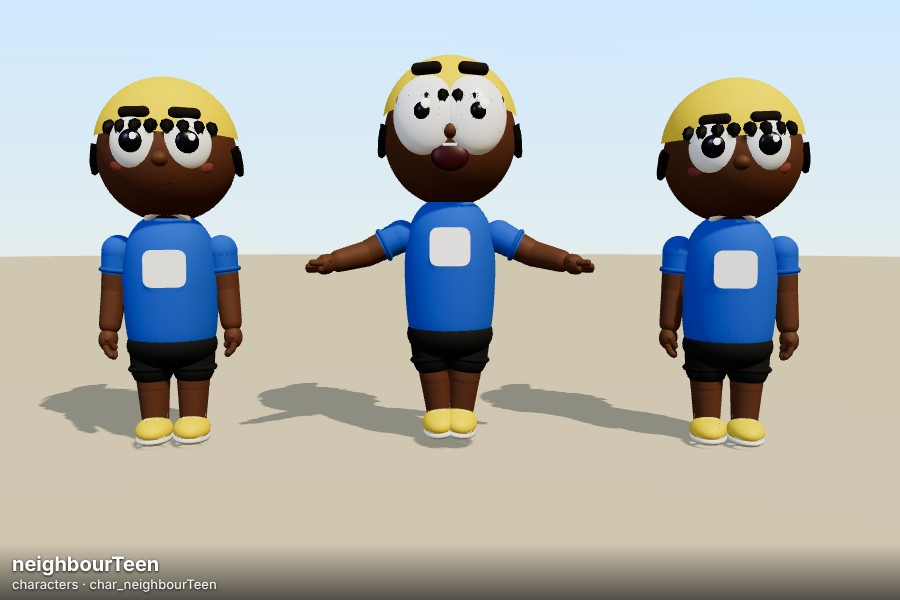
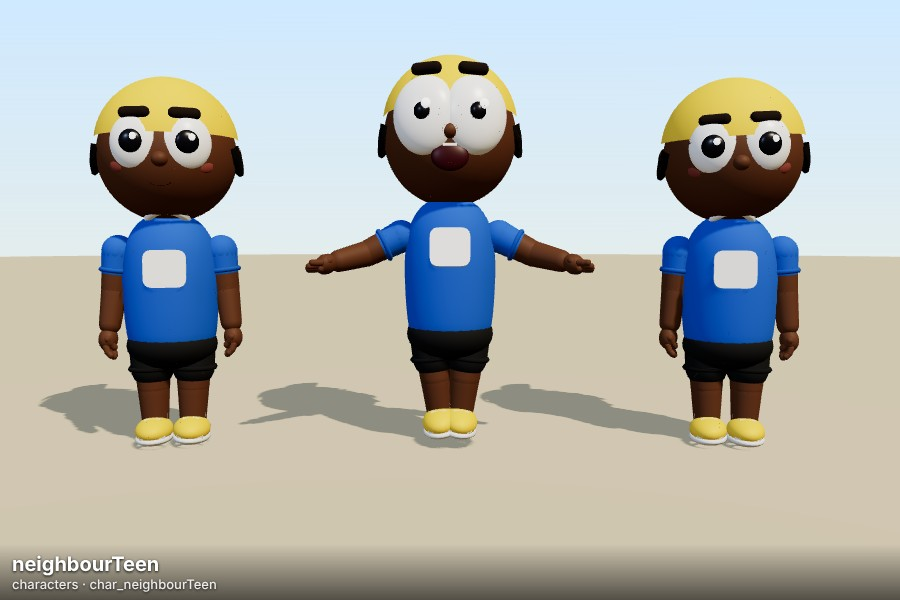
Library: seat-aware sitOn, continuous beard, rebuilt spiky hair, holdUpright balloons, hat-aware hair, refreshed screenshots
Claude-Session: https://claude.ai/code/session_01LtkTLQEXjtaSzWpKSxkCcj

Changed region(s): [[0.0933, 0.18, 0.2489, 0.24], [0.7467, 0.18, 0.9022, 0.24], [0.4667, 0.15, 0.5289, 0.18]]

diff --git a/series-animation-guide/assets/library/registry.js b/series-animation-guide/assets/library/registry.js
@@ -91,7 +91,7 @@ const PSTAGE = { sky: ['#cfe9ff', '#fff3d6'], ground: 0xd9c9a8 };
 reg({ id: 'prop_holdables', cat: 'props', title: 'Holdables (authored upright, grip at origin)', note: 'spatula, ice cream, envelope, mic, megaphone, flag, sign, beaker, test tube, clipboard, tray, bouquet, foam hand', stage: PSTAGE,
   build: () => { const its = [HOLD.spatula(), HOLD.iceCream(), HOLD.envelope(), HOLD.microphone(), HOLD.megaphone(), HOLD.flagOnStick(), HOLD.beaker(), HOLD.testTube(), HOLD.bouquet(), HOLD.foamHand(), HOLD.tray(), HOLD.clipboard()]; its.forEach((o) => { if (o.userData.grip?.upright === false) o.rotation.x = -0.3; o.position.y += 0.3; }); const g = rowOf(its, 0.55, 0.3); const sign = HOLD.signBoard(); sign.position.set(0, 0.0, 0); const b = new THREE.Group(); b.add(HOLD.heartBalloon(0xff3f7f, 0.7)); b.position.set(-1.8, 0, 0.0); return { obj: g, cam: { pos: [0, 1.2, 8.5], target: [0, 0.8, 0], fov: 34 } }; } });
 reg({ id: 'prop_holding_demo', cat: 'props', title: 'Holding demo: spatula, ice cream, envelope, mic, balloons', note: 'ch.hold(item, side) — items sit in the palm; poses holdR/holdL/holdBoth/carry', stage: PSTAGE,
-  build: () => { const g = new THREE.Group(); const mk = (preset, pose, item, side, x, ry = 0.5) => { const c = makeCharacter(PRESETS[preset]); c.pose({ ...POSES.idle(0), ...pose }); c.hold(item, side); c.face(FACES.happy); c.root.position.x = x; c.root.rotation.y = ry; g.add(c.root); return c; }; mk('hero', POSES.holdR(), HOLD.spatula(), 'R', -2.4); mk('iceCreamMan', POSES.holdL(), HOLD.iceCream(3), 'L', -0.8, -0.4); mk('postman', { ...POSES.holdR(), hR: 'pinch' }, HOLD.envelope(), 'R', 0.8); mk('host', POSES.holdR(), HOLD.microphone(), 'R', 2.4, -0.5); mk('kid', { ...POSES.holdR(), aRf: 0.5, aRe: 0.3, aRs: 0.4 }, HOLD.balloonBunch(6, 0.9), 'R', 3.8, 0.2); const car = makeCharacter(PRESETS.mum); car.pose(POSES.carry()); const bx = new THREE.Mesh(new THREE.BoxGeometry(0.4, 0.3, 0.3), new THREE.MeshStandardMaterial({ color: 0xc89a5a })); car.carry(bx); car.face(FACES.happy); car.root.position.x = -4.2; car.root.rotation.y = 0.4; g.add(car.root); return { obj: g, cam: { pos: [-0.2, 1.7, 9.6], target: [-0.2, 1.2, 0], fov: 38 } }; } });
+  build: () => { const g = new THREE.Group(); const mk = (preset, pose, item, side, x, ry = 0.5) => { const c = makeCharacter(PRESETS[preset]); c.pose({ ...POSES.idle(0), ...pose }); c.hold(item, side); c.face(FACES.happy); c.root.position.x = x; c.root.rotation.y = ry; g.add(c.root); return c; }; mk('hero', POSES.holdR(), HOLD.spatula(), 'R', -2.4); mk('iceCreamMan', POSES.holdL(), HOLD.iceCream(3), 'L', -0.8, -0.4); mk('postman', { ...POSES.holdR(), hR: 'pinch' }, HOLD.envelope(), 'R', 0.8); mk('host', POSES.holdR(), HOLD.microphone(), 'R', 2.4, -0.5); { const kd = makeCharacter(PRESETS.kid); kd.pose({ ...POSES.holdR(), aRf: 0.5, aRe: 0.3, aRs: 0.4 }); kd.face(FACES.happy); kd.root.position.x = 3.8; kd.root.rotation.y = 0.2; g.add(kd.root); kd.holdUpright(HOLD.balloonBunch(6, 0.9), 'R'); kd.pose({ ...POSES.holdR(), aRf: 0.5, aRe: 0.3, aRs: 0.4 }); } const car = makeCharacter(PRESETS.mum); car.pose(POSES.carry()); const bx = new THREE.Mesh(new THREE.BoxGeometry(0.4, 0.3, 0.3), new THREE.MeshStandardMaterial({ color: 0xc89a5a })); car.carry(bx); car.face(FACES.happy); car.root.position.x = -4.2; car.root.rotation.y = 0.4; g.add(car.root); return { obj: g, cam: { pos: [-0.2, 1.7, 9.6], target: [-0.2, 1.2, 0], fov: 38 } }; } });
 reg({ id: 'prop_home', cat: 'props', title: 'Home / garden props', note: 'tree, bush, flowers, grill, burger, picnic table, chair, pool, gazebo, trash can, lamp post, tablet, phone', stage: PSTAGE,
   build: () => { const r = rng(2); const g = new THREE.Group(); const put = (o, x, z, s = 1) => { o.position.set(x, 0, z); o.scale.setScalar(s); g.add(o); return o; }; put(HOME.tree(r, { h: 3 }), -4.5, 0, 0.9); put(HOME.bush(), -3.2, 0.5, 1.2); put(HOME.flowerPatch(rng(3), 14, 0.8), -2.3, 0.4); put(HOME.grill(), -1.2, 0); put(HOME.burger(), -0.2, 0.2, 2.5); put(HOME.picnicTable(), 1.4, 0, 0.7); put(HOME.lawnChair(), 2.9, 0.2); put(HOME.pool(0.7), 4.1, 0.1); put(HOME.gazebo(2, 2), 6.2, -0.5, 0.8); put(HOME.trashCan(), -5.6, 1); put(HOME.lamppost(2.6), -6.5, 0); const t = HOME.tablet(); t.position.set(-0.5, 0.2, 1.0); g.add(t); const p = HOME.phone(); p.position.set(0.1, 0.2, 1.0); g.add(p); const f = HOME.fence(3); f.position.set(5, 0, 1.3); g.add(f); return { obj: g, cam: { pos: [0.5, 2.8, 11.5], target: [0.5, 0.9, 0], fov: 44 } }; } });
 reg({ id: 'prop_house_front', cat: 'props', title: 'Detailed terraced house front', note: 'tiled roof, chimney, windows w/ shutters + flower boxes, door, plinth', stage: PSTAGE,
@@ -126,3 +126,9 @@ reg({ id: 'set_hilltop', cat: 'sets', title: 'Hilltop at golden hour (ep3 S7)', 
   build: () => { const s = buildHilltop(); s.update(12, 1); const h = makeCharacter(PRESETS.hero); h.pose(POSES.hugOpen(0, 1)); h.face(FACES.deadpan); h.root.position.set(0, 3.2, 3); h.root.rotation.y = 0.3; s.group.add(h.root); return { obj: s.group, cam: { pos: [3, 5, 14], target: [0, 3.6, 0], fov: 50 } }; } });
 reg({ id: 'set_relief_map', cat: 'sets', title: 'Relief map of "the entire state" (ep3 S4)', note: 'tan/green heightfield, border by mask', stage: { sky: ['#bfe0ff', '#fff6dc'], ground: null },
   build: () => { const m = WORLD.reliefMap({ size: 12, seed: 5 }); return { obj: m, cam: { pos: [0, 12, 11], target: [0, 0, 0], fov: 40 } }; } });
+
+reg({ id: 'detail_seated', cat: 'characters', title: 'Seated physics: sitOn(seat) puts hips on the seat and soles on the floor', note: 'grandma + hero in lawn chairs, mum on the picnic bench, kid on a stool',
+  stage: { sky: ['#cfe9ff', '#fff3d6'], ground: 0xcfe0a8 },
+  build: () => { const g = new THREE.Group(); const seat = (preset, S, x, ry, chairObj, face) => { const c = makeCharacter(PRESETS[preset]); const sc = PRESETS[preset].height ?? 1; c.pose({ ...POSES.sitOn(0, S / sc), aLf: 0.6, aRf: 0.6 }); c.face(face); c.root.position.set(x, 0, 0.02); c.root.rotation.y = ry; g.add(c.root); if (chairObj) { chairObj.position.set(x, 0, 0); chairObj.rotation.y = ry; g.add(chairObj); } return c; };
+    seat('grandma', 0.34, -2.2, 0.35, HOME.lawnChair(0x2bb7b0), FACES.happy); seat('hero', 0.34, -0.7, -0.3, HOME.lawnChair(0xff8a2b), FACES.smug); const t = HOME.picnicTable(); t.position.set(1.8, 0, 0.0); t.scale.setScalar(0.8); g.add(t); const m = makeCharacter(PRESETS.mum); m.pose({ ...POSES.sitOn(0, 0.34), aLf: 0.7, aRf: 0.7 }); m.face(FACES.happy); m.root.position.set(1.4, 0, 0.62); m.root.rotation.y = Math.PI; g.add(m.root);
+    return { obj: g, cam: { pos: [1.0, 1.3, 5.2], target: [0.2, 0.7, 0], fov: 38 } }; } });

diff --git a/series-animation-guide/assets/library/character.js b/series-animation-guide/assets/library/character.js
@@ -54,11 +54,12 @@ const ACC = {
     add(ch.head, tor(R * 1.0, R * 0.07, 8, 40), mat(0x2a2a33), [0, R * 0.12, 0], [Math.PI / 2, 0, 0]);
     for (const s of [-1, 1]) add(ch.head, sph(R * 0.28, 20, 12), mat(a, { rough: 0.2, opacity: 0.55 }), [s * R * 0.38, R * 0.1, R * 0.94], [0, 0, 0], [1, 1, 0.4]);
   },
-  beard(ch, a = 0x3b2a1e) { // chin + jaw beard that leaves the mouth clear
+  beard(ch, a = 0x4a3426) { // one continuous jaw/chin shell; the mouth is moved out so it sits on the beard
     const R = ch.R, m = mat(a, { rough: 0.9 });
-    add(ch.head, sph(R * 1.04, 40, 22, 0, Math.PI * 2, Math.PI * 0.7, Math.PI * 0.3), m, [0, -R * 0.02, R * 0.04]);
-    for (const s of [-1, 1]) { add(ch.head, sph(R * 0.2, 12, 10), m, [s * R * 0.7, -R * 0.42, R * 0.55], [0, 0, 0], [0.7, 1.3, 0.8]); add(ch.head, sph(R * 0.17, 12, 10), m, [s * R * 0.3, -R * 0.62, R * 0.8], [0, 0, 0], [1, 0.9, 0.7]); }
-    add(ch.head, sph(R * 0.2, 12, 10), m, [0, -R * 0.82, R * 0.62], [0, 0, 0], [1.2, 0.9, 0.8]);
+    add(ch.head, sph(R * 1.045, 48, 28, 0, Math.PI * 2, Math.PI * 0.6, Math.PI * 0.4), m, [0, -R * 0.02, R * 0.03], [0, 0, 0], [1.0, 1, 1.02]);
+    add(ch.head, sph(R * 0.42, 20, 14), m, [0, -R * 0.78, R * 0.66], [0, 0, 0], [1.25, 0.75, 0.8]);                   // chin tuft
+    ch.F.mouth.g.position.z = R * 1.075; ch.F.mouth.g.position.y = -R * 0.43;
+    ch.F.mouth.smile.material = new THREE.MeshStandardMaterial({ color: 0xe8848a, roughness: 0.5 });
   },
   stubble(ch) { ACC.beard(ch, 0x4a3a30); },
   mustache(ch, a = 0x2d2118) {
@@ -435,7 +436,7 @@ function applyFace(ch, f) {
 
 // ---------- poses ----------
 // joints: arms/legs "f" = forward swing, "s" = sideways raise, "e"/"k" = elbow/knee bend; hL/hR = hand preset name or [thumb,index,mid,ring,pinky]
-const J0 = { bob: 0, lean: 0, twist: 0, roll: 0, hx: 0, hy: 0, hz: 0, squash: 1, rotY: 0, aLf: 0, aLs: 0.1, aLe: 0.12, aRf: 0, aRs: 0.1, aRe: 0.12, lLf: 0, lLk: 0, lRf: 0, lRk: 0, lLs: 0.03, lRs: 0.03, hL: 'relaxed', hR: 'relaxed', plant: false };
+const J0 = { bob: 0, lean: 0, twist: 0, roll: 0, hx: 0, hy: 0, hz: 0, squash: 1, rotY: 0, aLf: 0, aLs: 0.1, aLe: 0.12, aRf: 0, aRs: 0.1, aRe: 0.12, lLf: 0, lLk: 0, lRf: 0, lRk: 0, lLs: 0.03, lRs: 0.03, hL: 'relaxed', hR: 'relaxed', plant: false, footFlat: 0 };
 function applyPose(ch, p) {
   const j = { ...J0, ...p };
   ch.hips.position.y = HIPS_Y + j.bob;
@@ -445,8 +446,8 @@ function applyPose(ch, p) {
   ch.body.position.y = 0; ch.hips.rotation.y = j.rotY;
   ch.aL.sh.rotation.set(-j.aLf, 0, j.aLs); ch.aL.el.rotation.x = -j.aLe;
   ch.aR.sh.rotation.set(-j.aRf, 0, -j.aRs); ch.aR.el.rotation.x = -j.aRe;
-  ch.lL.hip.rotation.set(-j.lLf, 0, -j.lLs); ch.lL.kn.rotation.x = j.lLk; ch.lL.foot.rotation.x = j.lLf * 0.3 - j.lLk * 0.25;
-  ch.lR.hip.rotation.set(-j.lRf, 0, j.lRs); ch.lR.kn.rotation.x = j.lRk; ch.lR.foot.rotation.x = j.lRf * 0.3 - j.lRk * 0.25;
+  ch.lL.hip.rotation.set(-j.lLf, 0, -j.lLs); ch.lL.kn.rotation.x = j.lLk; ch.lL.foot.rotation.x = (j.lLf * 0.3 - j.lLk * 0.25) * (1 - j.footFlat) + (j.lLf - j.lLk) * j.footFlat;
+  ch.lR.hip.rotation.set(-j.lRf, 0, j.lRs); ch.lR.kn.rotation.x = j.lRk; ch.lR.foot.rotation.x = (j.lRf * 0.3 - j.lRk * 0.25) * (1 - j.footFlat) + (j.lRf - j.lRk) * j.footFlat;
   if (!ch.heldL) setHand(ch.aL.hand, j.hL); if (!ch.heldR) setHand(ch.aR.hand, j.hR);
   if (j.plant) plant(ch);
 }
@@ -465,6 +466,13 @@ export const POSES = {
   hugLerp: (k = 0) => { const a = POSES.hugOpen(0, 1), b = POSES.hugClosed(0), o = { hL: 'open', hR: 'open' }; for (const key of Object.keys({ ...a, ...b })) { if (key === 'hL' || key === 'hR') continue; o[key] = (a[key] ?? J0[key] ?? 0) * (1 - k) + (b[key] ?? J0[key] ?? 0) * k; } return o; },
   // sitting: pass the seat height (hips rest on it); plant() afterwards puts the feet on the floor
   sit: (t = 0, seat = 0.45) => ({ bob: seat - HIPS_Y + 0.02, aLf: 0.55, aLe: 0.9, aRf: 0.55, aRe: 0.9, lLf: 1.4, lRf: 1.4, lLk: 1.4, lRk: 1.4, lean: 0.03 }),
+  // Seat-aware sitting: pelvis rests on a seat whose top is at height `seat` (cushion >= 0.14 thick hides the pelvis), thighs ~70deg forward,
+  // knee solved so the soles land exactly on y=0, feet flat. Natural seat heights for this rig: 0.30-0.38 (chairs, benches, stools).
+  sitOn: (t = 0, seat = 0.34, o = {}) => {
+    const hipJoint = seat + 0.06, a = o.thigh ?? 1.2, T = 0.255, S = 0.24, F = 0.08;
+    const need = (hipJoint - F - T * Math.cos(a)) / S, k = a - Math.acos(Math.max(-1, Math.min(1, need)));
+    return { bob: hipJoint + 0.03 - HIPS_Y, lLf: a, lRf: a, lLk: k, lRk: k, footFlat: 1, aLf: 0.55, aRf: 0.55, aLe: 0.9, aRe: 0.9, lean: 0.03, lLs: 0.06, lRs: 0.06, ...o.extra };
+  },
   clap: (t = 0) => { const a = (sin(t * 12) + 1) / 2; return { aLf: 1.2, aRf: 1.2, aLs: 0.08 + a * 0.4, aRs: 0.08 + a * 0.4, aLe: 1.25, aRe: 1.25, hx: -0.05, hL: 'open', hR: 'open' }; },
   cower: (t = 0) => ({ lean: 0.2, hx: 0.2, squash: 0.92, aLf: 1.1, aLs: 0.2, aLe: 1.8, aRf: 1.1, aRs: 0.2, aRe: 1.8, lLk: 0.5, lRk: 0.5, bob: -0.05, hL: 'fist', hR: 'fist' }),
   float: (t = 0) => ({ bob: 0.15 + sin(t * 2) * 0.05, aLf: 0.3, aRf: 0.3, aLs: 0.6, aRs: 0.6, aLe: 0.6, aRe: 0.6, lLk: 0.2, lRk: 0.2, lLf: 0.3, lRf: -0.1 }),
@@ -503,7 +511,7 @@ export const FACES = {
 export const PRESETS = {
   hero: { skin: SKIN.peach, seed: 3, hair: { style: 'messy', color: 0x4a2f1c }, outfit: { type: 'hoodie', color: 0xe53935 }, pants: { type: 'shorts', color: 0x2f6fd6 }, shoes: C.white, acc: ['headband:' + '0xffd23f'] },
   mum: { skin: SKIN.tan, lashes: true, seed: 5, hair: { style: 'bun', color: 0x2d1b14 }, outfit: { type: 'tee', color: 0x8a52c9 }, pants: { type: 'long', color: 0x3a3f66 }, shoes: 0xb84a6a, acc: [] },
-  dad: { skin: SKIN.peach, hair: { style: 'short', color: 0x22170f }, outfit: { type: 'hoodie', color: 0x2fa66a }, pants: { type: 'long', color: 0x4a4a52 }, shoes: 0x333333, width: 1.12, acc: ['beard:0x2a1d14'] },
+  dad: { skin: SKIN.peach, hair: { style: 'short', color: 0x22170f }, outfit: { type: 'hoodie', color: 0x2fa66a }, pants: { type: 'long', color: 0x4a4a52 }, shoes: 0x333333, width: 1.12, acc: ['beard:0x4a3426'] },
   kid: { skin: SKIN.peach, freckles: true, hair: { style: 'spiky', color: 0x7a4a22 }, outfit: { type: 'tee', color: 0xffb300 }, pants: { type: 'shorts', color: 0x4aa0e0 }, shoes: 0xee4444, height: 0.62, head: 1.18 },
   grandma: { skin: SKIN.pale, hair: { style: 'white-fluffy', color: 0xdcdcdc }, outfit: { type: 'cardigan', color: 0x6aa86a, color2: 0xf2e6c8 }, pants: { type: 'skirt', color: 0x7a5a8a }, shoes: 0x6a4a3a, height: 0.92, acc: ['glasses:0x6a4a3a'] },
   // ---- ep3 cast ----

diff --git a/series-animation-guide/assets/library/hair.js b/series-animation-guide/assets/library/hair.js
@@ -60,7 +60,6 @@ export function buildHair(head, R, style, color, seed = 1) {
     case 'bald': break;
 
     case 'hatHair': { // hair visible under hats/helmets: fringe + nape only
-      for (let i = 0; i < 8; i++) { const ph = -0.8 + i * 0.23; strand(70 * d2r, ph, ph * 0.1, -0.1, 0.2, 0.12, 0.06, [0, 0.05, 0.05], { segs: 6 }); }
       for (const s of [-1, 1]) for (let k = 0; k < 3; k++) strand((84 + k * 4) * d2r, s * (1.3 + k * 0.12), s * 0.1, -0.25, -0.05, 0.12, 0.06, [0, 0, 0], { segs: 6 });
       for (let i = 0; i < 8; i++) strand((92 + r() * 6) * d2r, 3.14 + (i - 3.5) * 0.3, 0, -0.3, -0.12, 0.14, 0.06, [0, 0, -0.04], { segs: 6 });
       break; }
@@ -78,7 +77,7 @@ export function buildHair(head, R, style, color, seed = 1) {
       for (let i = 0; i < 9; i++) { const ph = -0.9 + i * 0.225; strand(46 * d2r, ph, ph * 0.28 + 0.1, -0.15, 0.32, 0.15, 0.06, [0.04, 0.2, 0.1], { segs: 8 }); }
       for (const s of [-1, 1]) for (let k = 0; k < 4; k++) strand((64 + k * 7) * d2r, s * (1.15 + k * 0.09), s * 0.28, -0.12 - k * 0.04, -0.12, 0.19, 0.07, [s * 0.1, 0.05, 0], { segs: 8 });
       for (let i = 0; i < 10; i++) flow((62 + r() * 12) * d2r, 3.14 + (i - 4.5) * 0.3, (30 + r() * 10) * d2r, 0, 0.23, 0.1, 0.06);
-      for (let i = 0; i < 3; i++) strand(18 * d2r, 1 + i * 2.1, Math.sin(1 + i * 2.1) * 0.3, 0.32, Math.cos(1 + i * 2.1) * 0.3, 0.17, 0.07, [0.0, 0.25, 0.0], { segs: 8 });
+      for (let i = 0; i < 3; i++) flow(10 * d2r, 1 + i * 2.1, 40 * d2r, 0.5, 0.2, 0.09, 0.14);
       break; }
     case 'parting': { // side part, swept
       cap(0.55, -0.5);
@@ -109,11 +108,12 @@ export function buildHair(head, R, style, color, seed = 1) {
       for (let i = 0; i < 12; i++) strand((72 + r() * 15) * d2r, 3.14 + (i - 5.5) * 0.28, 0, -1.25 - r() * 0.2, -0.2, 0.2, 0.07, [0, -0.2, -0.12], { segs: 12 });
       break;
     }
-    case 'spiky': {
-      cap(0.46, -0.45, 0.02);
-      for (let i = 0; i < 14; i++) { const th = (10 + (i % 3) * 22) * d2r, ph = (i / 14) * 6.28; strand(th, ph, Math.sin(ph) * 0.5, 0.55, Math.cos(ph) * 0.5, 0.2, 0.01, [0, 0, 0], { segs: 5, tip: 0.0 }); }
-      break;
-    }
+    case 'spiky': { // swept-back tapered spikes in two tiers + side tufts
+      cap(0.5, -0.45, 0.025);
+      for (let i = 0; i < 12; i++) { const ph = (i / 12) * 6.283, th = 24 * d2r; strand(th, ph, Math.sin(ph) * 0.34, 0.4, Math.cos(ph) * 0.34, 0.22, 0.015, [Math.sin(ph) * 0.06, 0.08, Math.cos(ph) * 0.06], { segs: 8, tip: 0.2 }); }
+      for (let i = 0; i < 9; i++) { const ph = (i / 9) * 6.283 + 0.3, th = 46 * d2r; strand(th, ph, Math.sin(ph) * 0.34, 0.26, Math.cos(ph) * 0.34, 0.2, 0.02, [0, 0.06, 0], { segs: 7, tip: 0.2 }); }
+      for (const s of [-1, 1]) for (let k = 0; k < 3; k++) strand((70 + k * 8) * d2r, s * (1.2 + k * 0.15), s * 0.3, 0.02, -0.05, 0.14, 0.02, [s * 0.05, 0.1, 0], { segs: 6, tip: 0.2 });
+      break; }
     case 'wispy': {
       cap(0.42, -0.4, 0.02);
       for (const s of [-1, 1]) for (let k = 0; k < 4; k++) strand((78 + k * 4) * d2r, s * (1.2 + k * 0.1), s * 0.25, -0.1, -0.05, 0.1, 0.03, [s * 0.1, 0.1, 0], { segs: 7 });

diff --git a/series-animation-guide/assets/library/props/home.js b/series-animation-guide/assets/library/props/home.js
@@ -44,14 +44,16 @@ export function burger() {
 export function picnicTable() {
   const g = new THREE.Group(); const wood = mat(0xb9824a, { rough: 0.8 });
   add(g, rbox(2.0, 0.08, 0.9, 0.03), wood, [0, 0.78, 0]);
-  for (const s of [-1, 1]) { add(g, rbox(2.0, 0.07, 0.34, 0.03), wood, [0, 0.45, s * 0.7]); add(g, box(0.07, 0.8, 0.07), wood, [s * 0.78, 0.4, 0.3], [0.3 * s, 0, 0]); add(g, box(0.07, 0.8, 0.07), wood, [s * 0.78, 0.4, -0.3], [-0.3 * s, 0, 0]); }
+  for (const s of [-1, 1]) { add(g, rbox(2.0, 0.14, 0.34, 0.04), wood, [0, 0.27, s * 0.7]); add(g, box(0.07, 0.8, 0.07), wood, [s * 0.78, 0.4, 0.3], [0.3 * s, 0, 0]); add(g, box(0.07, 0.8, 0.07), wood, [s * 0.78, 0.4, -0.3], [-0.3 * s, 0, 0]); }
   add(g, box(1.9, 0.012, 0.8), mat(0xf6f0e0), [0, 0.825, 0]); // cloth
   return g;
 }
+// Lawn chair: seat top at 0.34 (matches POSES.sitOn(t, 0.34)), thick cushion, back rest. Faces +Z.
 export function lawnChair(color = 0x2bb7b0) {
   const g = new THREE.Group(); const fr = mat(0xd8d8e0, { metal: 0.6, rough: 0.3 });
-  add(g, rbox(0.55, 0.06, 0.5, 0.03), mat(color), [0, 0.42, 0]); add(g, rbox(0.55, 0.55, 0.06, 0.03), mat(color), [0, 0.74, -0.24], [-0.25, 0, 0]);
-  for (const x of [-1, 1]) for (const z of [-1, 1]) add(g, cyl(0.015, 0.015, 0.42, 6), fr, [x * 0.24, 0.21, z * 0.2], [0, 0, 0]);
+  add(g, rbox(0.62, 0.16, 0.56, 0.06), mat(color), [0, 0.26, 0]);                                   // cushion: top at 0.34
+  add(g, rbox(0.6, 0.56, 0.1, 0.05), mat(color), [0, 0.64, -0.26], [-0.18, 0, 0]);                   // back
+  for (const x of [-1, 1]) { for (const z of [-1, 1]) add(g, cyl(0.018, 0.018, 0.2, 6), fr, [x * 0.27, 0.1, z * 0.22]); add(g, rbox(0.05, 0.05, 0.5, 0.02), fr, [x * 0.3, 0.45, -0.02]); add(g, cyl(0.018, 0.018, 0.4, 6), fr, [x * 0.3, 0.3, -0.2], [0.3, 0, 0]); }
   return g;
 }
 export function pool(r = 0.9) {
